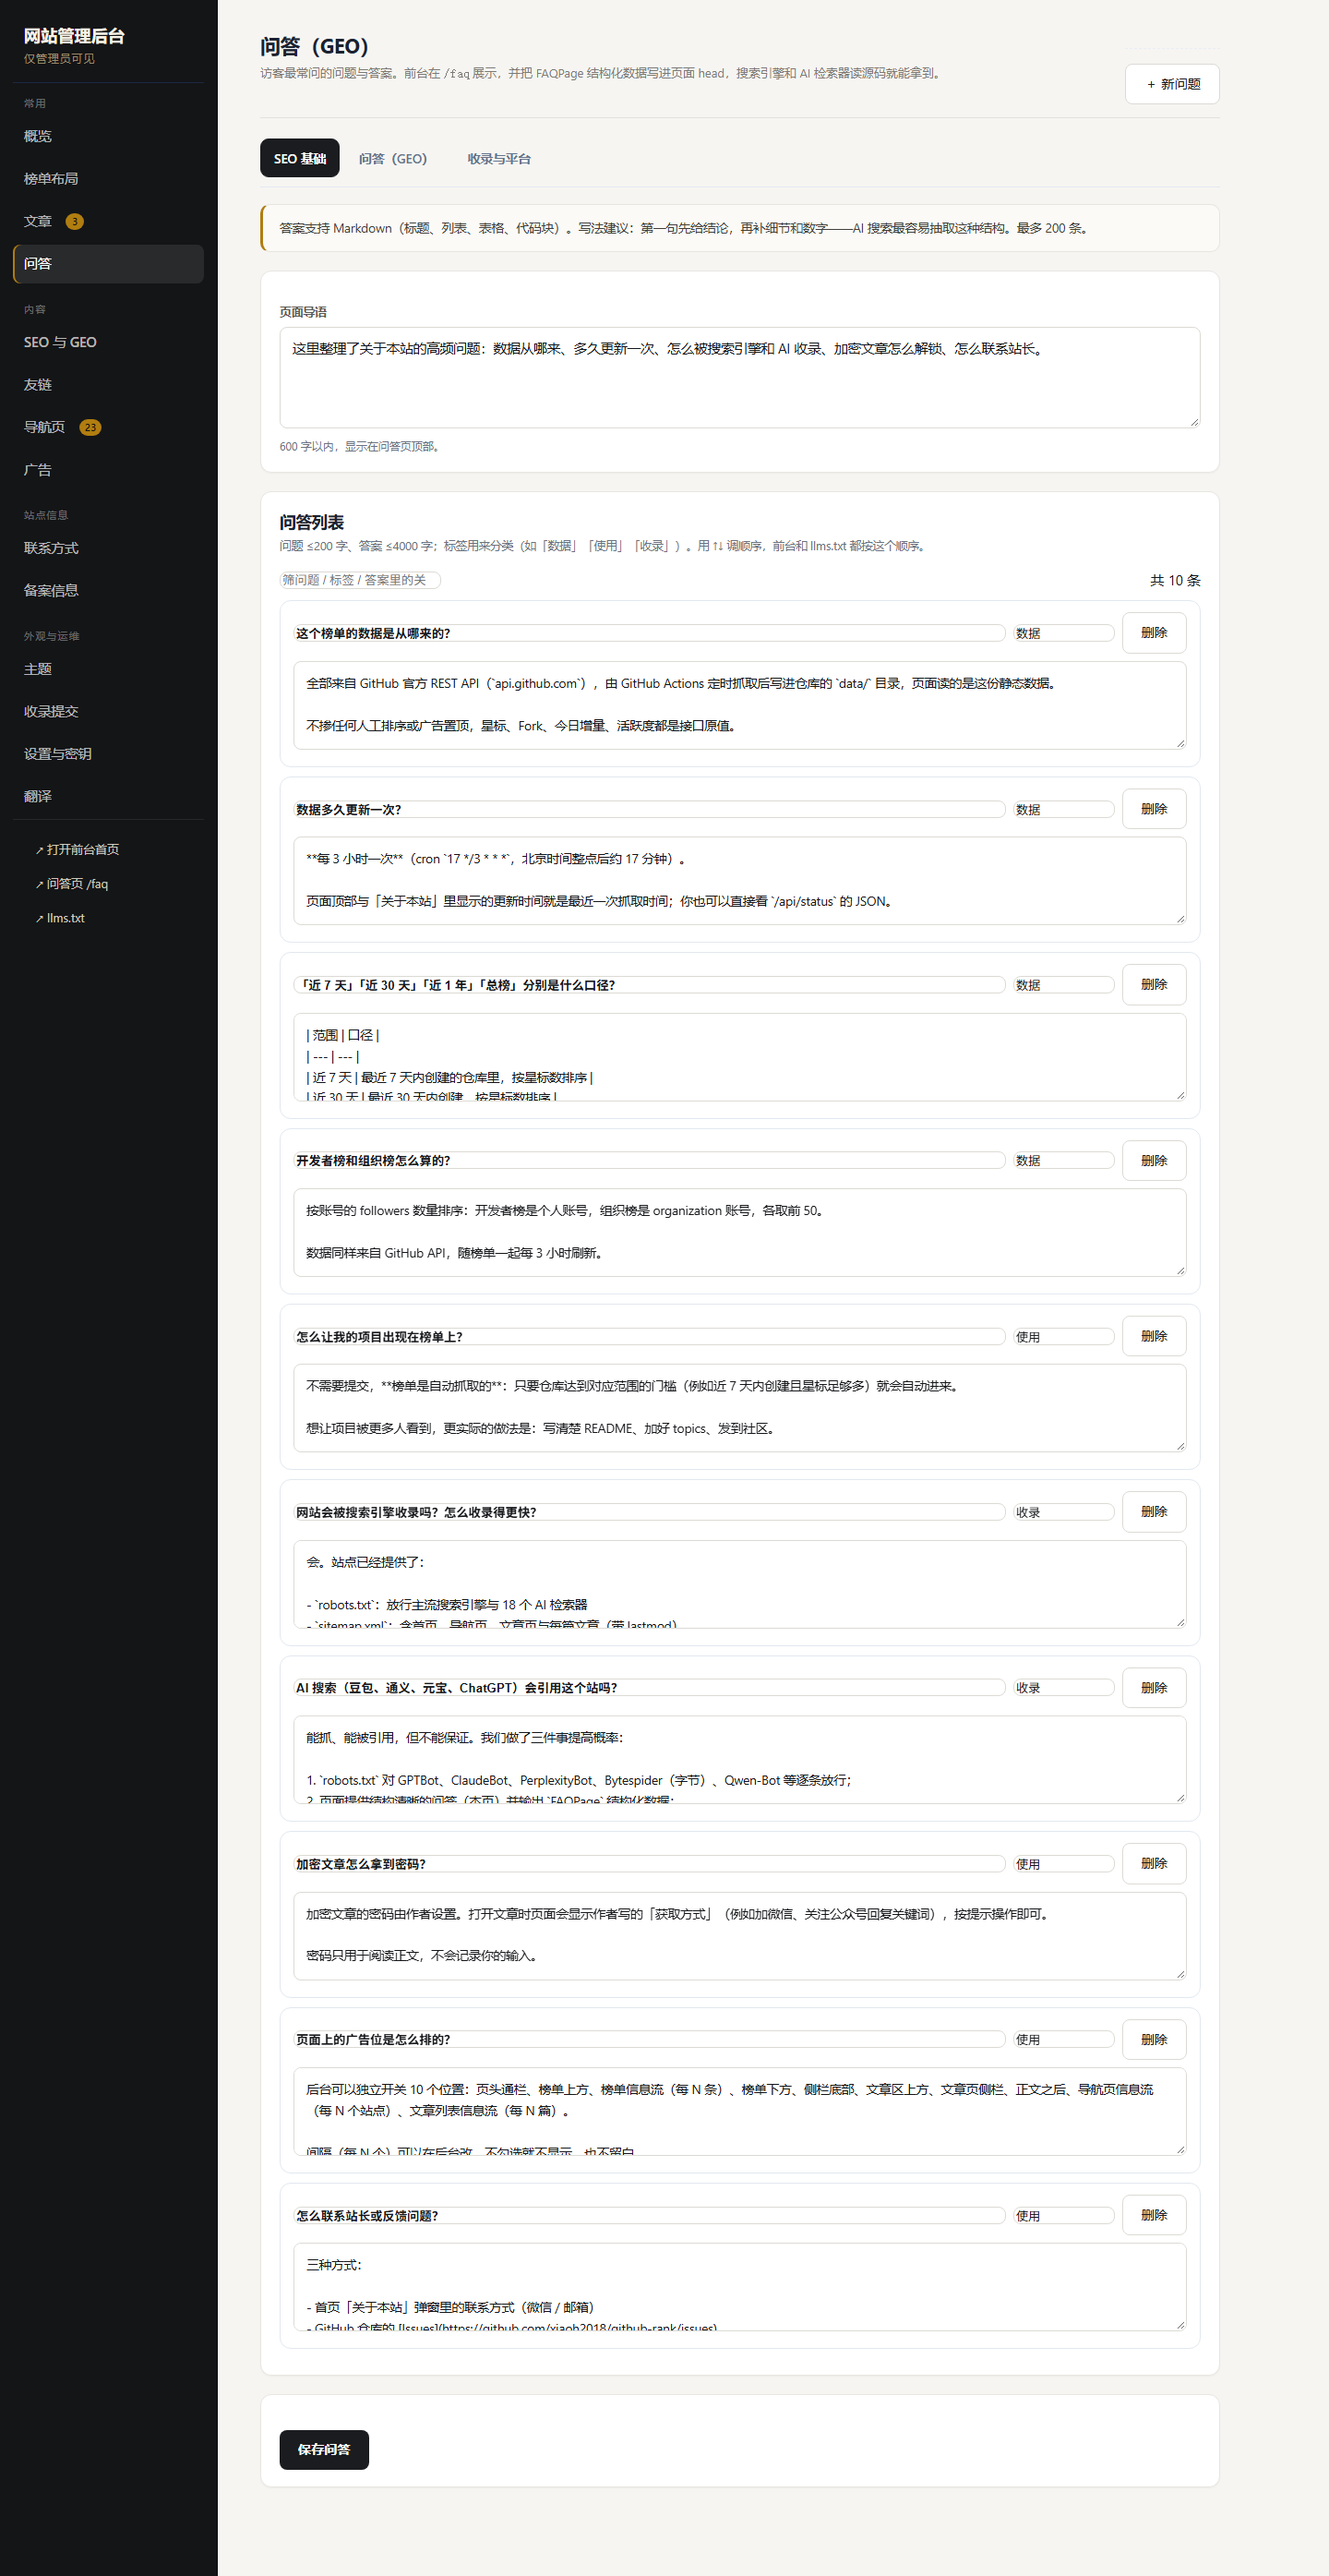
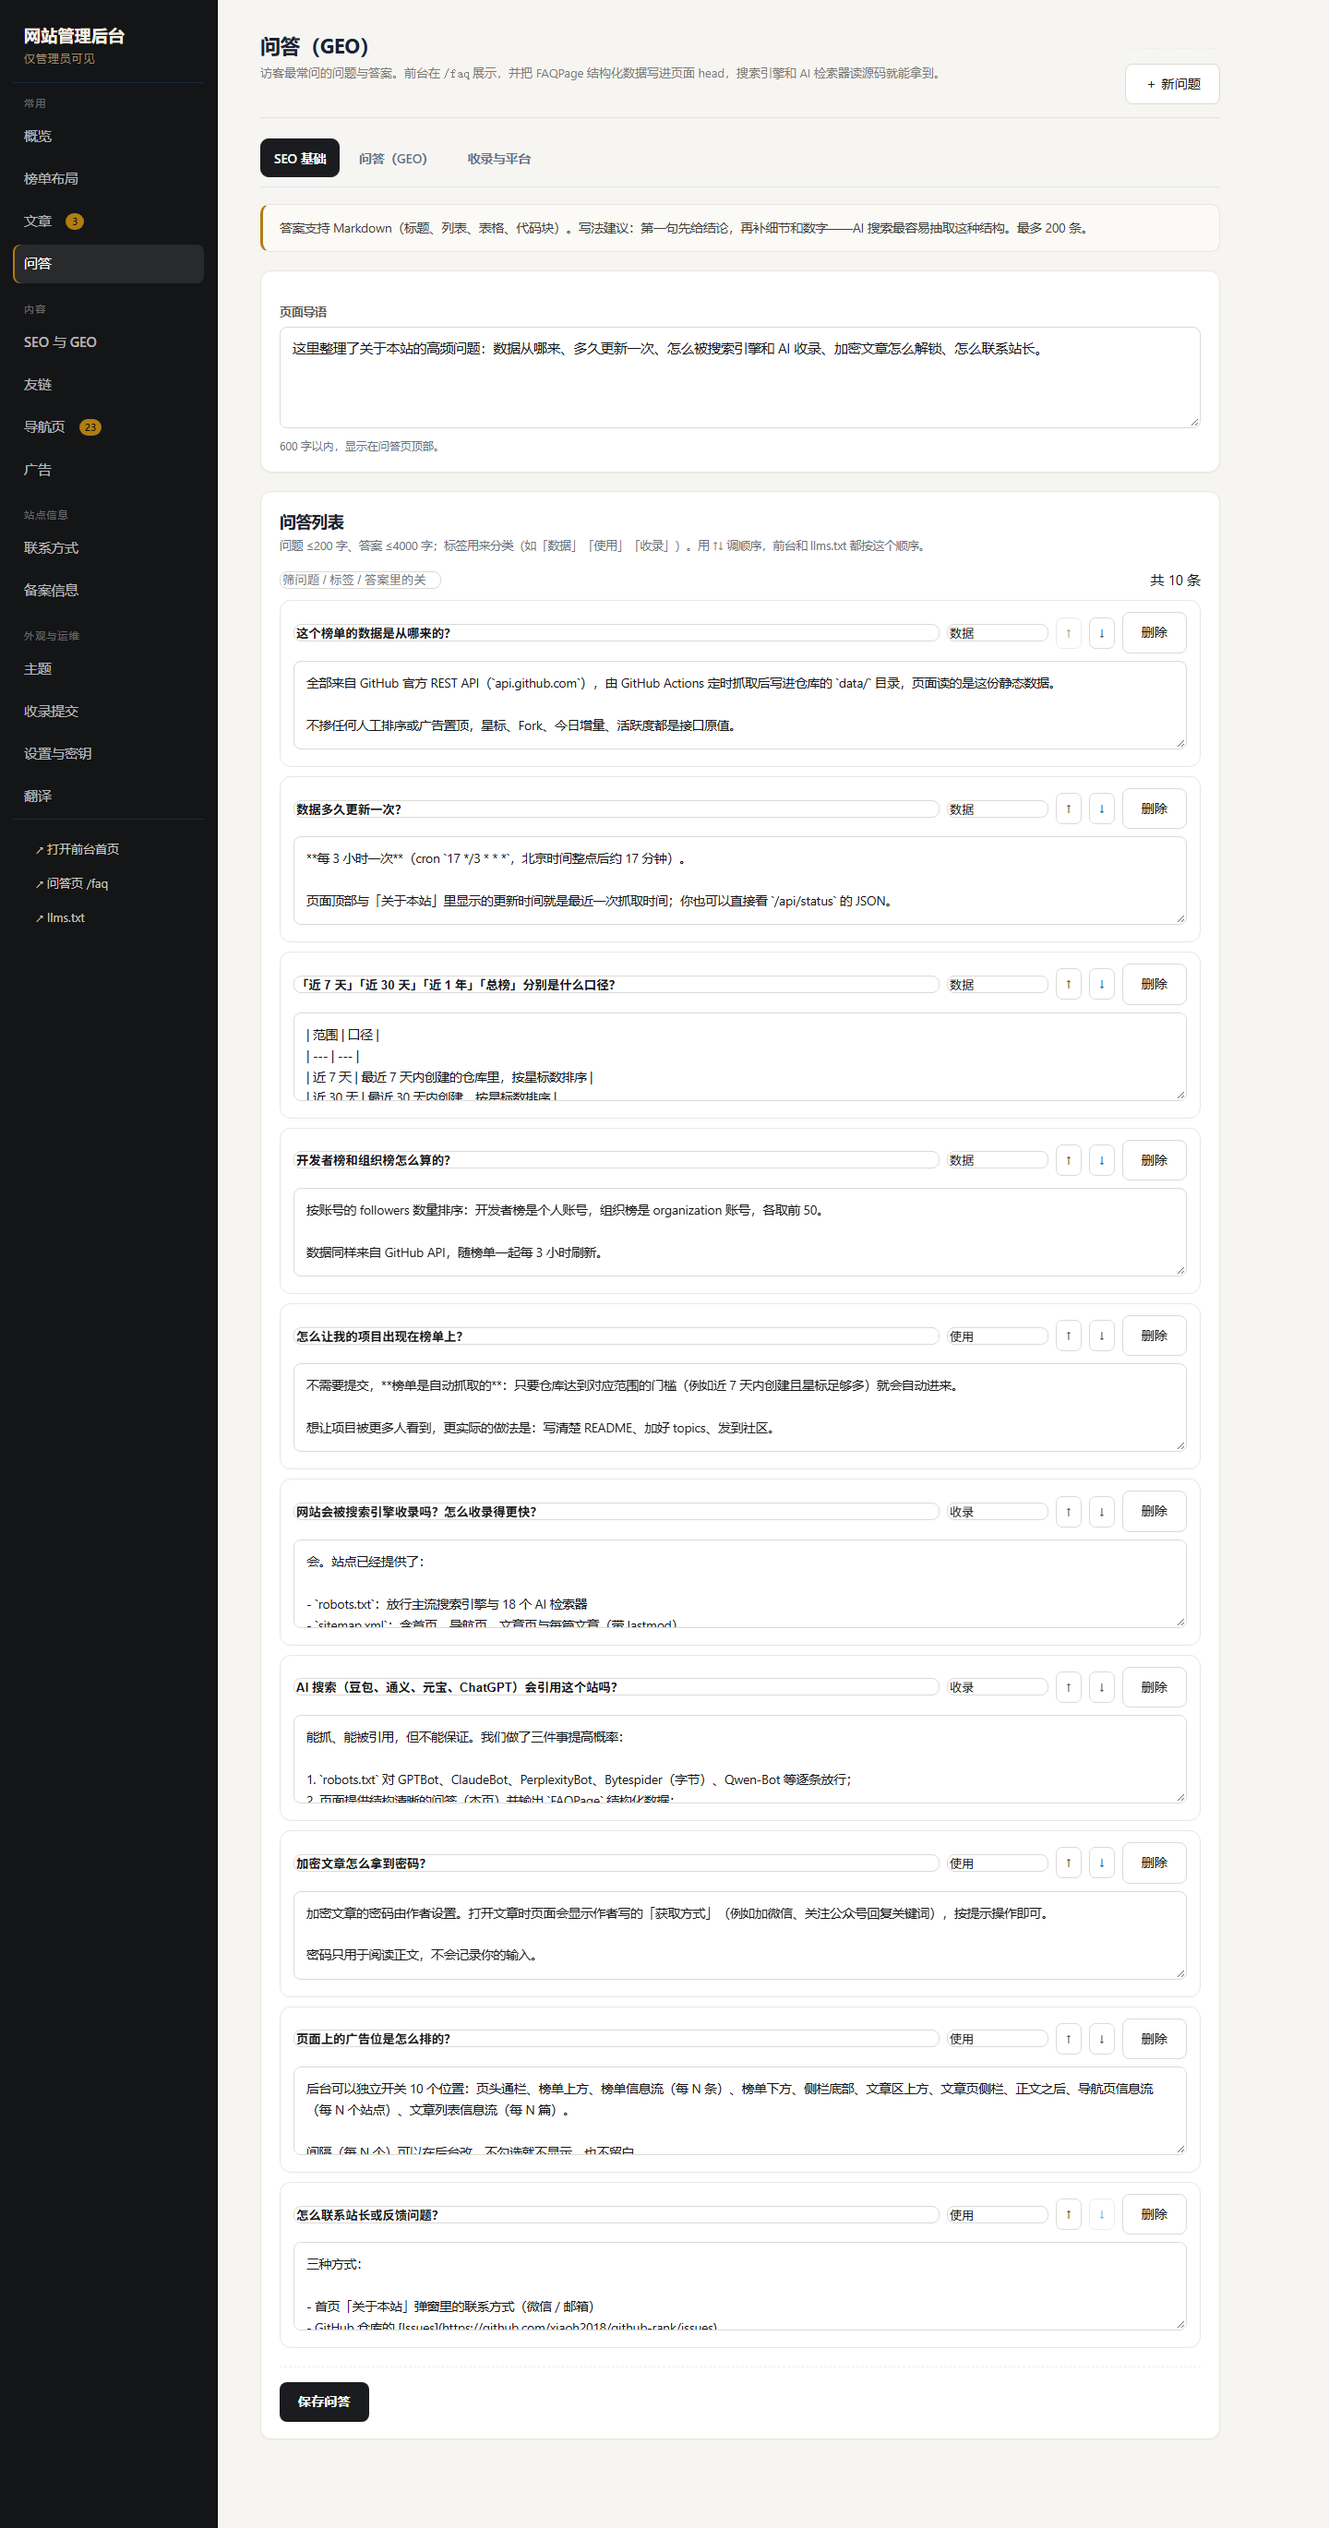
fix: 问答面板补上上移/下移按钮（原来只有事件没有按钮，排序是死代码）
- qaRow 输出 data-qaup/data-qadn，首尾自动禁用
- 新增 scripts/check-qa-order.mjs（9 项，含不保存即还原）
- check-live 增加问答按钮断言
- docs §87（含 readQaForm 会丢空行的坑）
- sw.js / ASSET_V -> v113

diff --git a/worker.js b/worker.js
@@ -1614,7 +1614,7 @@ async function injectFaqLd(env, html) {
 
 // 静态资源版本：HTML 里的 /js/*.js 都会被加上 ?v=<这里>，于是能给浏览器一年 immutable；
 // 改了前端就把它 +1（不然用户浏览器会抱着一周的旧 bundle，界面上去点了没反应）
-const ASSET_V = 'v112';
+const ASSET_V = 'v113';
 
 function emptyNav() {
   return { updatedAt: '', groups: [] };
@@ -5880,6 +5880,8 @@ tr:hover td{background:#fcfbf8}
     return '<div class="qa-row" data-i="' + i + '">' +
       '<div class="qa-top"><input class="qa-q" maxlength="200" placeholder="问题，例如：这个榜单的数据多久更新一次？" value="' + qesc(it.q) + '">' +
       '<input class="qa-tag" maxlength="20" placeholder="标签" value="' + qesc(it.tag) + '">' +
+      '<button type="button" class="ghost small" data-qaup="' + i + '" title="上移"' + (i === 0 ? ' disabled' : '') + '>↑</button>' +
+      '<button type="button" class="ghost small" data-qadn="' + i + '" title="下移"' + (i === qaState.items.length - 1 ? ' disabled' : '') + '>↓</button>' +
       '<button type="button" class="ghost" data-qadel="' + i + '">删除</button></div>' +
       '<textarea class="qa-a" maxlength="4000" placeholder="答案（支持 Markdown）">' + qesc(it.a) + '</textarea>' +
       '</div>';

diff --git a/sw.js b/sw.js
@@ -1,5 +1,5 @@
 /* Service Worker：缓存页面外壳（HTML/JS/图标），让离线也能打开；GitHub API 不缓存，由页面自己的 localStorage 管理 */
-const CACHE = 'ghrank-shell-v112';
+const CACHE = 'ghrank-shell-v113';
 const SHELL = ['./', 'index.html', 'js/bundle.js', 'js/md.js', 'manifest.json', 'icon.svg'];
 // 只预缓存 meta（约 2KB）。榜单数据按 range 分文件、由页面按需加载，不再在安装时白下几�?KB
 const DATA = 'data/repos-meta.js';

diff --git a/docs/优化建议.md b/docs/优化建议.md
@@ -1788,3 +1788,44 @@ window.addEventListener('beforeprint', function () {
 **截图**
 
 `docs/shots/admin-links.png`（1440×900，操作列 `↑ ↓ 编辑 删除`，单条友链时 ↑↓ 自动 disabled）
+
+### 第 87 批：问答排序按钮（原来只有事件、没有按钮）（v113）
+
+**发现的问题**
+
+后台「问答」面板里，`bindQaActions()` 早就写好了上移/下移的点击处理：
+
+```js
+var up = e.target.closest('[data-qaup]'), dn = e.target.closest('[data-qadn]');
+```
+
+但 `qaRow()` 渲染出来的每一行只有「问题输入框 + 标签 + 删除」，**从来没有输出过 `data-qaup` / `data-qadn` 的元素**——于是这段排序逻辑是死代码，用户根本没法调顺序。问答题在前台 `/faq` 是按数组顺序渲染的，顺序等于「重要程度」，所以这个洞挺实际。
+
+**修法**
+
+`qaRow()` 在删除按钮前补两个按钮，边界自动禁用：
+
+```js
+'<button type="button" class="ghost small" data-qaup="' + i + '" title="上移"' + (i === 0 ? ' disabled' : '') + '>↑</button>' +
+'<button type="button" class="ghost small" data-qadn="' + i + '" title="下移"' + (i === qaState.items.length - 1 ? ' disabled' : '') + '>↓</button>' +
+```
+
+`.qa-top` 本来就是 `display:flex;flex-wrap:wrap;gap:8px`，`.qa-q` 是 `flex:1 1 320px`，所以加两个小按钮不会把问题输入框挤变形（截图确认）。
+
+**新增门禁**
+
+`node scripts/check-qa-order.mjs`（CDP 真点，需先起 dev-server）9 项：
+
+- 面板打开、每行都有 ↑ ↓、第一条上移与最后一条下移是禁用的
+- 点第 1 条的下移 → 前两条换位
+- 再点回来的上移 → 恢复原顺序
+- 点一次「新问题」只多一行
+- **不保存**刷新回后台 → 顺序回到线上数据、`/api/qa` 条数没变（保证门禁不脏数据）
+
+**写门禁时踩的坑**
+
+一开始想「连点两次新问题再填内容」，结果只多了一行——因为 `#qaNew` 的处理器会先 `qaState = readQaForm()`，而 `readQaForm()` 会**丢掉问题和答案都为空的行**，所以第二个空行把第一个空行挤掉了。结论：**加行之后必须立刻填内容**，或者干脆用现成的前两条来测换位（现在就是这么做的，更稳）。
+
+**截图**
+
+`docs/shots/admin-qa.png`（1440×2739，每行右侧 `↑ ↓ 删除`，首尾自动禁用）
